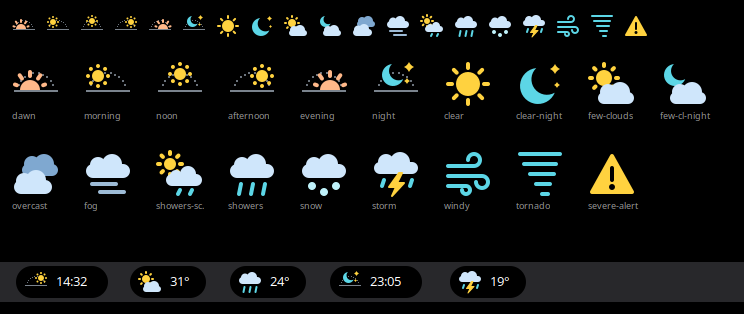
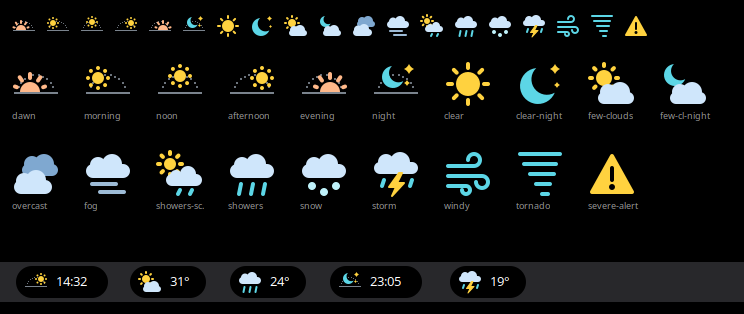
feat(clock): the daypart scene a pixel lower, on the time's bottom row
With the pill's text at 1em the time's figures end a row lower than at 13 px: in SF Pro
Display 11 at 1×, measured in headless Shell, their bottom row is the pill's row 20. The
horizon moves from row 15 to row 16 of the 24 grid (the pill's row 20), and the whole scene
with it: the arc, the suns on it, dawn and evening's half suns, the night's moon and stars
(Ethan, 2026-11-12: option B1 of four). docs/design/icons updated; icons.test.js reads the
row from one constant.

Refs: FEATURES.md M4 "Sizes in em: the bar and the pill"

diff --git a/tests/icons.test.js b/tests/icons.test.js
@@ -83,33 +83,35 @@ const dayparts = DAYPARTS.map(read);
 const horizon = dayparts[0].match(/<g id="arc".*?<rect id="horizon"[^>]*>/)[0];
 for (const [i, svg] of dayparts.entries())
     ok(svg.includes(horizon), `${DAYPARTS[i]}: the same horizon and arc as dawn`);
-// The horizon: exactly one pixel row, row 15 (y 15–16), x 1–23; in the 32 px pill that is row
-// 19, the time's baseline row (docs/design/icons, 2026-11-11, Ethan)
-ok(horizon.endsWith('<rect id="horizon" x="1" y="15" width="22" height="1" fill="#7A838D"/>'),
-    'the horizon: one pixel row at y 15, x 1 to 23, solid');
+// The horizon: exactly one pixel row, row 16 (y 16–17), x 1–23; in the 32 px pill that is row
+// 20, the bottom row of the time's figures at 1em (docs/design/icons, 2026-11-12, Ethan: the
+// scene a pixel lower than row 15)
+const HY = 16;
+ok(horizon.endsWith(`<rect id="horizon" x="1" y="${HY}" width="22" height="1" fill="#7A838D"/>`),
+    'the horizon: one pixel row at y 16, x 1 to 23, solid');
 // The sun's path: single pixels in the arc's grey, mirrored in x = 12, near the circle of
-// radius 8.4 around (12, 15), none on or next to the horizon row
-const ARC = [[3, 12], [4, 10], [6, 8], [8, 7], [10, 6], [13, 6], [15, 7], [17, 8], [19, 10], [20, 12]];
+// radius 8.4 around (12, 16), none on or next to the horizon row
+const ARC = [[3, 13], [4, 11], [6, 9], [8, 8], [10, 7], [13, 7], [15, 8], [17, 9], [19, 11], [20, 13]];
 const cells = [...horizon.matchAll(/<rect x="(\d+)" y="(\d+)" width="1" height="1"\/>/g)].map(m => [Number(m[1]), Number(m[2])]);
 eq(JSON.stringify(cells), JSON.stringify(ARC), 'the arc\'s pixels, left to right');
 ok(horizon.startsWith('<g id="arc" fill="#6B737C">'), 'the arc: solid #6B737C');
 for (const [x, y] of cells) {
     ok(cells.some(([mx, my]) => mx === 23 - x && my === y), `arc pixel (${x}, ${y}) has its mirror`);
-    const d = Math.hypot(x + 0.5 - 12, y + 0.5 - 15);
-    ok(Math.abs(d - 8.4) <= 0.5, `arc pixel (${x}, ${y}) is ${d.toFixed(2)} from (12, 15), not about 8.4`);
-    ok(y <= 13, `arc pixel (${x}, ${y}) stays clear of the horizon row`);
+    const d = Math.hypot(x + 0.5 - 12, y + 0.5 - HY);
+    ok(Math.abs(d - 8.4) <= 0.5, `arc pixel (${x}, ${y}) is ${d.toFixed(2)} from (12, ${HY}), not about 8.4`);
+    ok(y <= HY - 2, `arc pixel (${x}, ${y}) stays clear of the horizon row`);
 }
 // Dawn and evening: half a disc on the horizon row, five rays 35° apart, the outer two a
 // pixel shorter (2026-11-11, Ethan); evening is dawn mirrored in x = 12
 const rays = name => [...read(name).match(/<g id="sun">.*?<\/g>/)[0]
     .matchAll(/<line x1="([\d.]+)" y1="([\d.]+)" x2="([\d.]+)" y2="([\d.]+)"/g)].map(m => m.slice(1).map(Number));
 for (const [name, cx] of [['daypart-dawn', 9], ['daypart-evening', 15]]) {
-    ok(read(name).includes(`<g id="sun"><path d="M${cx - 5} 15A5 5 0 0 1 ${cx + 5} 15Z"`), `${name}: half a disc of radius 5 at x ${cx}, on row 15`);
+    ok(read(name).includes(`<g id="sun"><path d="M${cx - 5} ${HY}A5 5 0 0 1 ${cx + 5} ${HY}Z"`), `${name}: half a disc of radius 5 at x ${cx}, on row ${HY}`);
     const r = rays(name);
     eq(r.length, 5, `${name}: five rays`);
     eq(JSON.stringify(r.map(([x1, y1, x2, y2]) => Math.round(Math.hypot(x2 - x1, y2 - y1)))), '[1,2,2,2,1]',
         `${name}: the outer rays a pixel shorter than the upper three`);
-    eq(JSON.stringify(r.map(([x1, y1]) => Math.round(Math.atan2(15 - y1, x1 - cx) * 180 / Math.PI))), '[160,125,90,55,20]',
+    eq(JSON.stringify(r.map(([x1, y1]) => Math.round(Math.atan2(HY - y1, x1 - cx) * 180 / Math.PI))), '[160,125,90,55,20]',
         `${name}: rays 35° apart`);
 }
 eq(JSON.stringify(rays('daypart-evening').map(([x1, y1, x2, y2]) => [24 - x1, y1, 24 - x2, y2].map(v => v.toFixed(1))).reverse()),
@@ -143,8 +145,8 @@ if (Rsvg) {
         eq(`${px.get_width()}x${px.get_height()}`, '24x24', `${name}: renders 24 × 24`);
         const n = px.get_n_channels();
         for (let x = 0; x < 24; x++) {
-            eq(hex(px, n, x, 15), x >= 1 && x <= 22 ? '#7A838D' : 'none', `${name}: horizon row 15, column ${x}`);
-            for (const y of [16, 17, 18, 19, 20, 21, 22, 23])
+            eq(hex(px, n, x, HY), x >= 1 && x <= 22 ? '#7A838D' : 'none', `${name}: horizon row ${HY}, column ${x}`);
+            for (let y = HY + 1; y < 24; y++)
                 eq(hex(px, n, x, y), 'none', `${name}: nothing under the horizon at (${x}, ${y})`);
         }
         // an arc pixel is its grey in full, or under the sun or the moon: never half lit

diff --git a/scripts/icons.js b/scripts/icons.js
@@ -106,13 +106,14 @@ const svg = (...parts) =>
     `<svg xmlns="http://www.w3.org/2000/svg" width="24" height="24" viewBox="0 0 24 24">${parts.join('')}</svg>\n`;
 
 // ---- dayparts: one horizon and one dotted arc, shared ---------------------------------
-// The horizon is exactly one pixel row, row 15 (y 15–16), x 1–23: in the 32 px pill that is
-// row 19, the time's baseline row (measured in headless Shell, 2026-11-06, Ethan). The
-// sun's path is single solid pixels on an arc around (12, 15), radius about 8.4, mirrored
+// The horizon is exactly one pixel row, row 16 (y 16–17), x 1–23: in the 32 px pill (the cell
+// at y 4) that is row 20, the bottom row of the time's figures at 1em (SF Pro Display 11, 1×,
+// measured in headless Shell 2026-11-12, Ethan: the whole scene a pixel lower than row 15).
+// The sun's path is single solid pixels on an arc around (12, 16), radius about 8.4, mirrored
 // in x = 12 (docs/design/icons, 2026-11-11). Cells are [column, row] of the right half.
-const HY = 15;
+const HY = 16;
 const AR = 8.4;
-const ARC_CELLS = [[13, 6], [15, 7], [17, 8], [19, 10], [20, 12]];
+const ARC_CELLS = [[13, 7], [15, 8], [17, 9], [19, 11], [20, 13]];
 const pixels = [...ARC_CELLS.map(([x, y]) => [23 - x, y]).reverse(), ...ARC_CELLS];
 const horizon = () =>
     `<g id="arc" fill="${ARC}">${pixels.map(([x, y]) => `<rect x="${x}" y="${y}" width="1" height="1"/>`).join('')}</g>` +
@@ -125,10 +126,10 @@ const arcSun = (x, y) => sun(x, y, 3, 5, 5, 2);
 const icons = {
     'daypart-dawn': svg(horizon(), halfSun(9, HY, 5, 7, 9, 2)),
     'daypart-morning': svg(horizon(), arcSun(mx, my)),
-    'daypart-noon': svg(horizon(), arcSun(12, 7)),
+    'daypart-noon': svg(horizon(), arcSun(12, 8)),
     'daypart-afternoon': svg(horizon(), arcSun(ax, ay)),
     'daypart-evening': svg(horizon(), halfSun(15, HY, 5, 7, 9, 2)),
-    'daypart-night': svg(horizon(), moon(10.5, 7.5, 5.5), star(18.5, 3.5, 2.5), star(17.5, 10.5, 1.5)),
+    'daypart-night': svg(horizon(), moon(10.5, 8.5, 5.5), star(18.5, 4.5, 2.5), star(17.5, 11.5, 1.5)),
 
     // ---- weather: GWeather's conditions; sun or moon behind the cloud, upper left ----
     'weather-clear': svg(sun(12, 12, 6, 8, 10, 2)),

diff --git a/docs/design/icons/index.vi.md b/docs/design/icons/index.vi.md
@@ -17,20 +17,22 @@ Icon buổi trong ngày và thời tiết: 19 SVG màu, một họ, `scripts/ico
   đặc, không gradient, không viền, không chữ. Đường chân trời ở y 11 của lưới 16 (không ở đáy),
   để ở 20 px nó nằm đúng hàng chân chữ của giờ. **Chốt** (Ethan, 2026-11-06)
 
-- **Đường chân trời** (icon buổi): đúng một hàng pixel, **hàng 15** của lưới 24 (y 15–16), x 1–23;
-  trong pill 32 là hàng 19 (khung nội dung cách đỉnh 4). 1 px ở 24, 2 px (hàng 30–31) ở 48. Đây là
-  hàng chân chữ của giờ (đo 2026-11-06). Không đặt ở hàng lẻ nửa pixel như cách quy đổi từ lưới 16
-  (nét 1.5 px vắt qua hai hàng, mờ mép dưới). **Chốt** (Ethan, 2026-11-11)
+- **Đường chân trời** (icon buổi): đúng một hàng pixel, **hàng 16** của lưới 24 (y 16–17), x 1–23;
+  trong pill 32 là hàng 20 (khung nội dung cách đỉnh 4). 1 px ở 24, 2 px (hàng 32–33) ở 48. Đây là
+  hàng đáy của chữ số giờ khi chữ 1em (SF Pro Display 11, 1×, đo 2026-11-12). Không đặt ở hàng lẻ
+  nửa pixel như cách quy đổi từ lưới 16 (nét 1.5 px vắt qua hai hàng, mờ mép dưới). **Chốt**
+  (Ethan, 2026-11-11; cả cảnh hạ 1 px từ hàng 15, 2026-11-12, vì chữ 1em có chân thấp hơn chữ 13 px)
 - **Cung chấm** (đường mặt trời đi): từng pixel đặc màu `#6B737C` thay cho chấm tròn 1 đơn vị mờ
-  60 %, đối xứng, trên cung quanh tâm (12, 15) bán kính khoảng 8.4; ở 48 mỗi pixel thành ô 2 × 2.
+  60 %, đối xứng, trên cung quanh tâm (12, 16) bán kính khoảng 8.4; ở 48 mỗi pixel thành ô 2 × 2.
   Khoảng cách không cần đều hẳn: pixel nhỏ nên không thấy. 10 ô [cột, hàng], đối xứng qua x = 12:
-  (3, 12) (4, 10) (6, 8) (8, 7) (10, 6) | (13, 6) (15, 7) (17, 8) (19, 10) (20, 12); tâm mỗi ô cách
-  (12, 15) từ 8.28 đến 8.86; hàng 13 và 14 để trống trên đường chân trời. **Chốt** (Ethan, 2026-11-11)
+  (3, 13) (4, 11) (6, 9) (8, 8) (10, 7) | (13, 7) (15, 8) (17, 9) (19, 11) (20, 13); tâm mỗi ô cách
+  (12, 16) từ 8.28 đến 8.86; hàng 14 và 15 để trống trên đường chân trời. **Chốt** (Ethan, 2026-11-11;
+  hạ 1 hàng cùng đường chân trời, 2026-11-12)
 - Mặt trời trên cung (sáng, trưa, chiều): đĩa bán kính 3, tám tia là chấm 2 px ở bán kính 5, tia
-  đầu ở 0° (trước là 22.5°), để ở 24 px tia đứng và tia ngang rơi đúng pixel. Tâm: sáng (7, 8), trưa
-  (12, 7), chiều (17, 8). Mặt trời đứng riêng (thời tiết) giữ tia dạng vạch. **Chốt** (Ethan,
+  đầu ở 0° (trước là 22.5°), để ở 24 px tia đứng và tia ngang rơi đúng pixel. Tâm: sáng (7, 9), trưa
+  (12, 8), chiều (17, 9) (hạ 1 hàng, 2026-11-12). Mặt trời đứng riêng (thời tiết) giữ tia dạng vạch. **Chốt** (Ethan,
   2026-11-11)
-- Bình minh và hoàng hôn: nửa đĩa bán kính 5 đứng trên hàng 15, tâm x 9 (bình minh) và x 15 (hoàng
+- Bình minh và hoàng hôn: nửa đĩa bán kính 5 đứng trên hàng 16, tâm x 9 (bình minh) và x 15 (hoàng
   hôn; hoàng hôn là bình minh lật qua x = 12). **Năm tia** cách nhau 35° (20°, 55°, 90°, 125°, 160°
   trên đường chân trời), rộng 2 px; ba tia trên dài 4 px, hai tia ngoài 3 px. **Chốt** (Ethan,
   2026-11-11)
